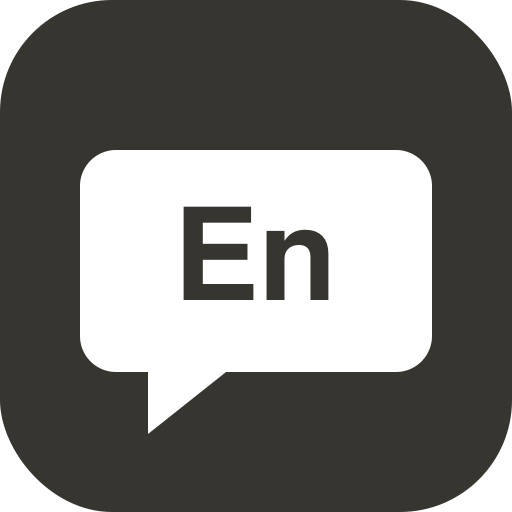
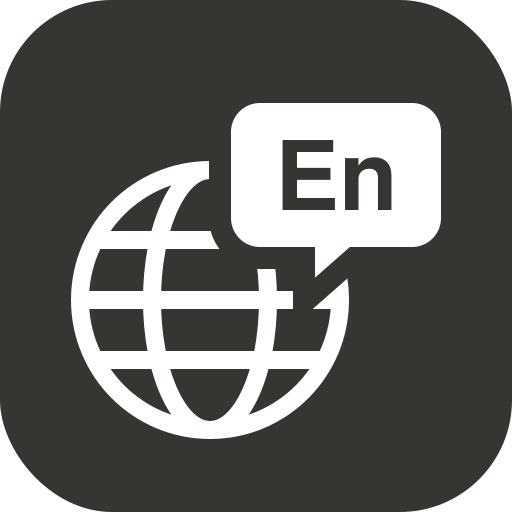
アイコンを地球＋吹き出しのデザインに
Claude-Session: https://claude.ai/code/session_01Bw63NyttgyfFi5Rtbn1KW4

Changed region(s): [[0.125, 0.1875, 0.875, 0.875]]

diff --git a/index.html b/index.html
@@ -7,7 +7,7 @@
 <meta name="apple-mobile-web-app-title" content="英会話">
 <meta name="theme-color" content="#ffffff">
 <title>英会話</title>
-<link rel="apple-touch-icon" href="apple-touch-icon.png?v=2">
+<link rel="apple-touch-icon" href="apple-touch-icon.png?v=3">
 <link rel="icon" type="image/svg+xml" href="icon.svg">
 <style>
   :root { --fg:#37352f; --sub:#787774; --line:#e9e9e7; --bg:#fff; --soft:#f7f6f3; --red:#e03e3e; --blue:#2383e2; --green:#2b8a57;
